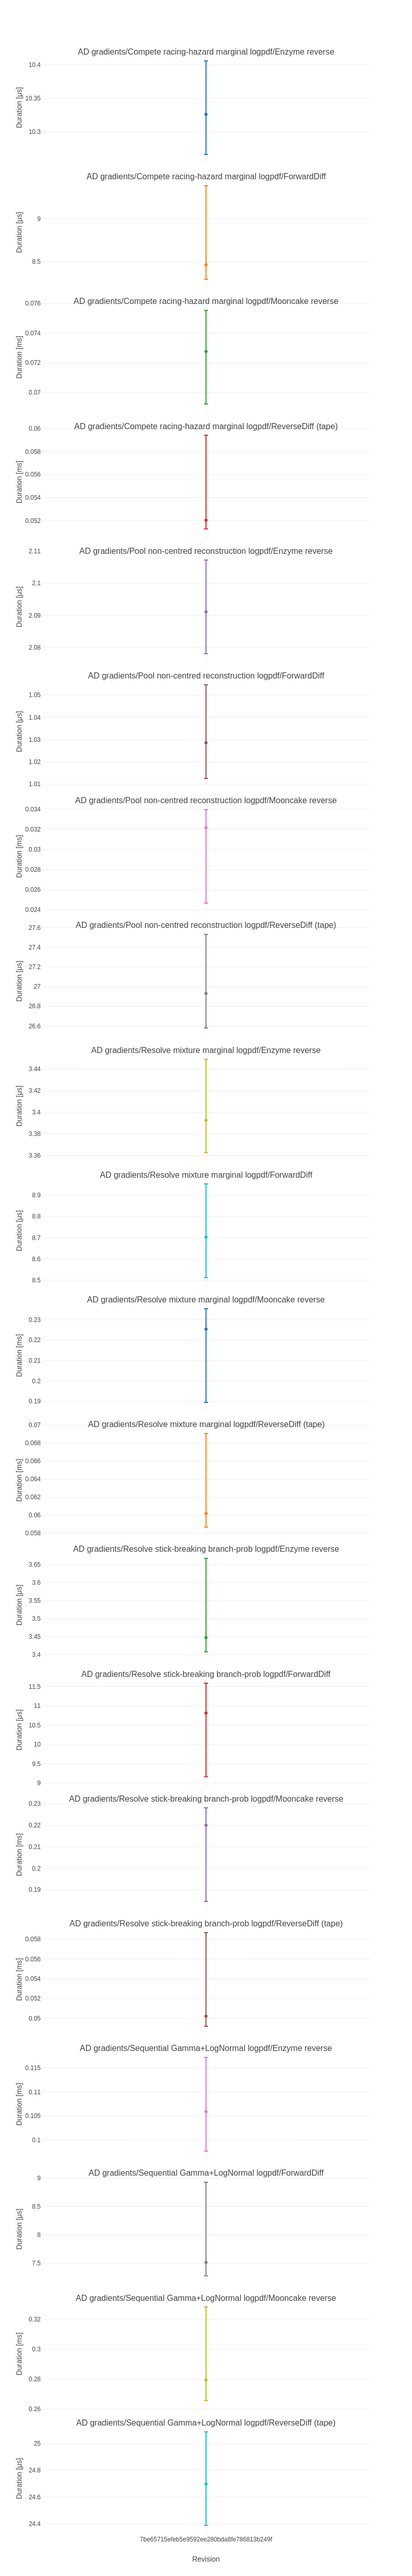
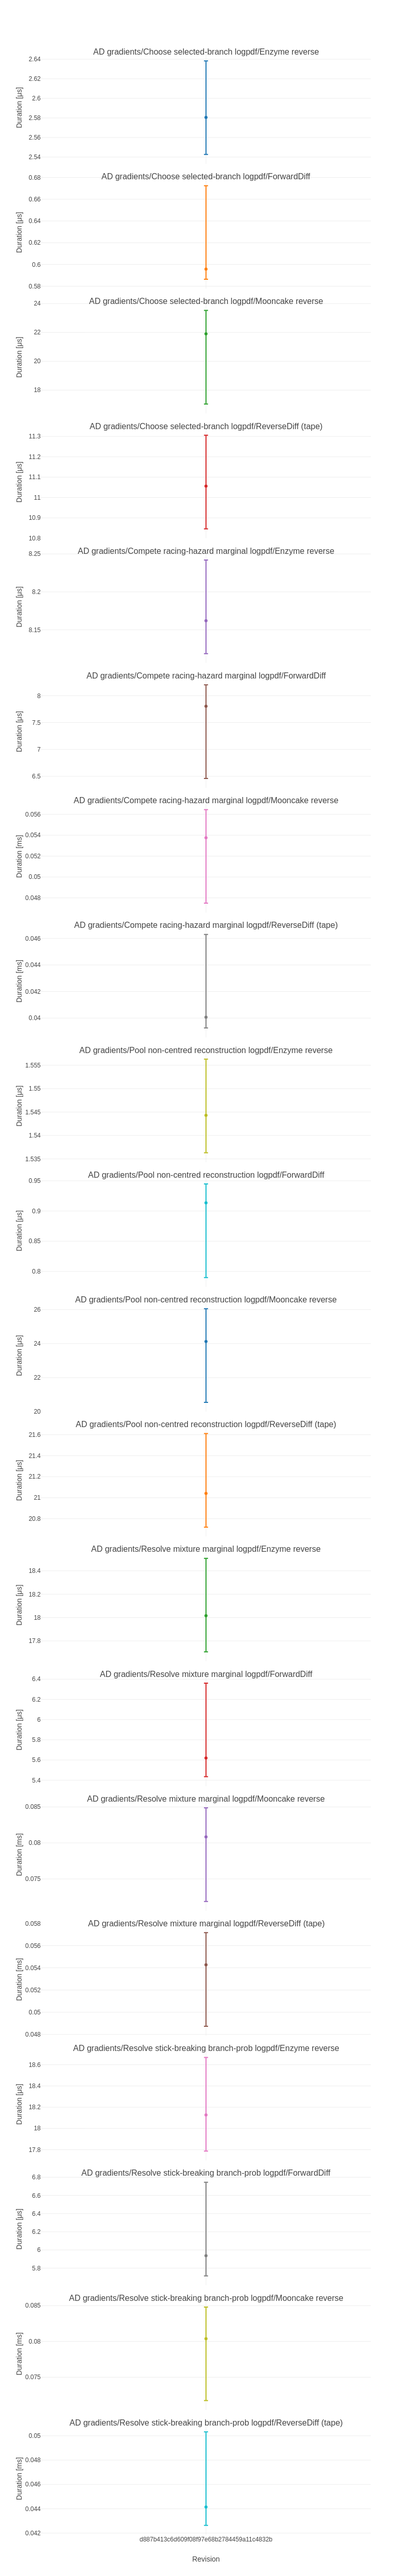
Deploying to benchmarks from @ EpiAware/ComposedDistributions.jl@d887b413c6d609f08f97e68b2784459a11c4832b 🚀

diff --git a/history/table.md b/history/table.md
@@ -1,82 +1,90 @@
-|                                                                           | 7be65715efeb5e...  |
-|:--------------------------------------------------------------------------|:------------------:|
-| AD gradients/Compete racing-hazard marginal logpdf/Enzyme reverse         | 10.3 ± 0.14 μs     |
-| AD gradients/Compete racing-hazard marginal logpdf/ForwardDiff            | 8.47 ± 1.1 μs      |
-| AD gradients/Compete racing-hazard marginal logpdf/Mooncake reverse       | 0.0728 ± 0.0063 ms |
-| AD gradients/Compete racing-hazard marginal logpdf/ReverseDiff (tape)     | 0.052 ± 0.0081 ms  |
-| AD gradients/Pool non-centred reconstruction logpdf/Enzyme reverse        | 2.09 ± 0.029 μs    |
-| AD gradients/Pool non-centred reconstruction logpdf/ForwardDiff           | 1.03 ± 0.042 μs    |
-| AD gradients/Pool non-centred reconstruction logpdf/Mooncake reverse      | 0.0322 ± 0.0093 ms |
-| AD gradients/Pool non-centred reconstruction logpdf/ReverseDiff (tape)    | 26.9 ± 0.95 μs     |
-| AD gradients/Resolve mixture marginal logpdf/Enzyme reverse               | 3.39 ± 0.087 μs    |
-| AD gradients/Resolve mixture marginal logpdf/ForwardDiff                  | 8.7 ± 0.44 μs      |
-| AD gradients/Resolve mixture marginal logpdf/Mooncake reverse             | 0.225 ± 0.046 ms   |
-| AD gradients/Resolve mixture marginal logpdf/ReverseDiff (tape)           | 0.0602 ± 0.01 ms   |
-| AD gradients/Resolve stick-breaking branch-prob logpdf/Enzyme reverse     | 3.45 ± 0.26 μs     |
-| AD gradients/Resolve stick-breaking branch-prob logpdf/ForwardDiff        | 10.8 ± 2.4 μs      |
-| AD gradients/Resolve stick-breaking branch-prob logpdf/Mooncake reverse   | 0.22 ± 0.043 ms    |
-| AD gradients/Resolve stick-breaking branch-prob logpdf/ReverseDiff (tape) | 0.0502 ± 0.0095 ms |
-| AD gradients/Sequential Gamma+LogNormal logpdf/Enzyme reverse             | 0.106 ± 0.019 ms   |
-| AD gradients/Sequential Gamma+LogNormal logpdf/ForwardDiff                | 7.51 ± 1.6 μs      |
-| AD gradients/Sequential Gamma+LogNormal logpdf/Mooncake reverse           | 0.279 ± 0.063 ms   |
-| AD gradients/Sequential Gamma+LogNormal logpdf/ReverseDiff (tape)         | 24.7 ± 0.7 μs      |
-| Composition/Choose/construct                                              | 1.74 ± 0.01 ns     |
-| Composition/Choose/logpdf                                                 | 29.8 ± 0.061 ns    |
-| Composition/Compete/construct                                             | 1.74 ± 0.01 ns     |
-| Composition/Compete/logccdf                                               | 0.336 ± 0.0021 μs  |
-| Composition/Compete/rand                                                  | 0.54 ± 0.12 μs     |
-| Composition/Nested/compose                                                | 1.42 ± 0.095 μs    |
-| Composition/Nested/logpdf                                                 | 1.72 ± 0.11 μs     |
-| Composition/Nested/rand                                                   | 4.87 ± 0.18 μs     |
-| Composition/Parallel/construct                                            | 0.899 ± 0.2 μs     |
-| Composition/Parallel/logpdf                                               | 0.105 ± 0.023 μs   |
-| Composition/Parallel/rand                                                 | 0.913 ± 0.043 μs   |
-| Composition/Resolve/construct                                             | 3.5 ± 0.01 ns      |
-| Composition/Resolve/logpdf                                                | 0.109 ± 0.0014 μs  |
-| Composition/Resolve/rand                                                  | 0.521 ± 0.11 μs    |
-| Composition/Sequential/construct                                          | 0.904 ± 0.21 μs    |
-| Composition/Sequential/logpdf                                             | 0.104 ± 0.024 μs   |
-| Composition/Sequential/rand                                               | 2.24 ± 0.041 μs    |
-| time_to_load                                                              | 0.865 ± 0.0028 s   |
+|                                                                           | d887b413c6d609...   |
+|:--------------------------------------------------------------------------|:-------------------:|
+| AD gradients/Choose selected-branch logpdf/Enzyme reverse                 | 2.58 ± 0.096 μs     |
+| AD gradients/Choose selected-branch logpdf/ForwardDiff                    | 0.596 ± 0.086 μs    |
+| AD gradients/Choose selected-branch logpdf/Mooncake reverse               | 21.9 ± 6.5 μs       |
+| AD gradients/Choose selected-branch logpdf/ReverseDiff (tape)             | 11.1 ± 0.46 μs      |
+| AD gradients/Compete racing-hazard marginal logpdf/Enzyme reverse         | 8.16 ± 0.12 μs      |
+| AD gradients/Compete racing-hazard marginal logpdf/ForwardDiff            | 7.8 ± 1.7 μs        |
+| AD gradients/Compete racing-hazard marginal logpdf/Mooncake reverse       | 0.0538 ± 0.009 ms   |
+| AD gradients/Compete racing-hazard marginal logpdf/ReverseDiff (tape)     | 0.0401 ± 0.007 ms   |
+| AD gradients/Pool non-centred reconstruction logpdf/Enzyme reverse        | 1.54 ± 0.02 μs      |
+| AD gradients/Pool non-centred reconstruction logpdf/ForwardDiff           | 0.914 ± 0.15 μs     |
+| AD gradients/Pool non-centred reconstruction logpdf/Mooncake reverse      | 24.1 ± 5.5 μs       |
+| AD gradients/Pool non-centred reconstruction logpdf/ReverseDiff (tape)    | 21 ± 0.89 μs        |
+| AD gradients/Resolve mixture marginal logpdf/Enzyme reverse               | 18 ± 0.8 μs         |
+| AD gradients/Resolve mixture marginal logpdf/ForwardDiff                  | 5.62 ± 0.93 μs      |
+| AD gradients/Resolve mixture marginal logpdf/Mooncake reverse             | 0.0808 ± 0.013 ms   |
+| AD gradients/Resolve mixture marginal logpdf/ReverseDiff (tape)           | 0.0543 ± 0.0084 ms  |
+| AD gradients/Resolve stick-breaking branch-prob logpdf/Enzyme reverse     | 18.1 ± 0.88 μs      |
+| AD gradients/Resolve stick-breaking branch-prob logpdf/ForwardDiff        | 5.94 ± 1 μs         |
+| AD gradients/Resolve stick-breaking branch-prob logpdf/Mooncake reverse   | 0.0804 ± 0.013 ms   |
+| AD gradients/Resolve stick-breaking branch-prob logpdf/ReverseDiff (tape) | 0.0441 ± 0.0077 ms  |
+| AD gradients/Sequential Gamma+LogNormal logpdf/Enzyme reverse             | 0.0846 ± 0.018 ms   |
+| AD gradients/Sequential Gamma+LogNormal logpdf/ForwardDiff                | 8.93 ± 1.1 μs       |
+| AD gradients/Sequential Gamma+LogNormal logpdf/Mooncake reverse           | 0.255 ± 0.053 ms    |
+| AD gradients/Sequential Gamma+LogNormal logpdf/ReverseDiff (tape)         | 22.4 ± 0.9 μs       |
+| Composition/Choose/construct                                              | 1.35 ± 0 ns         |
+| Composition/Choose/logpdf                                                 | 22 ± 0.04 ns        |
+| Composition/Compete/construct                                             | 1.35 ± 0 ns         |
+| Composition/Compete/logccdf                                               | 0.266 ± 0.0018 μs   |
+| Composition/Compete/rand                                                  | 0.437 ± 0.066 μs    |
+| Composition/Nested/compose                                                | 2.3 ± 0.1 μs        |
+| Composition/Nested/logpdf                                                 | 1.28 ± 0.088 μs     |
+| Composition/Nested/rand                                                   | 3.6 ± 0.17 μs       |
+| Composition/Parallel/construct                                            | 1.24 ± 0.07 μs      |
+| Composition/Parallel/logpdf                                               | 0.0789 ± 0.023 μs   |
+| Composition/Parallel/rand                                                 | 1.08 ± 0.034 μs     |
+| Composition/Resolve/construct                                             | 2.7 ± 0.01 ns       |
+| Composition/Resolve/logpdf                                                | 0.0853 ± 0.00087 μs |
+| Composition/Resolve/rand                                                  | 0.424 ± 0.066 μs    |
+| Composition/Sequential/construct                                          | 1.25 ± 0.072 μs     |
+| Composition/Sequential/logpdf                                             | 0.0791 ± 0.023 μs   |
+| Composition/Sequential/rand                                               | 1.08 ± 0.035 μs     |
+| time_to_load                                                              | 0.719 ± 0.0054 s    |
 
-|                                                                           | 7be65715efeb5e...         |
+|                                                                           | d887b413c6d609...         |
 |:--------------------------------------------------------------------------|:-------------------------:|
+| AD gradients/Choose selected-branch logpdf/Enzyme reverse                 | 24  allocs: 1 kB          |
+| AD gradients/Choose selected-branch logpdf/ForwardDiff                    | 7  allocs: 0.266 kB       |
+| AD gradients/Choose selected-branch logpdf/Mooncake reverse               | 0.28 k allocs: 0.0321 MB  |
+| AD gradients/Choose selected-branch logpdf/ReverseDiff (tape)             | 0.228 k allocs: 9.92 kB   |
 | AD gradients/Compete racing-hazard marginal logpdf/Enzyme reverse         | 24  allocs: 1.3 kB        |
 | AD gradients/Compete racing-hazard marginal logpdf/ForwardDiff            | 0.132 k allocs: 6.2 kB    |
-| AD gradients/Compete racing-hazard marginal logpdf/Mooncake reverse       | 0.596 k allocs: 0.0522 MB |
+| AD gradients/Compete racing-hazard marginal logpdf/Mooncake reverse       | 0.582 k allocs: 0.0475 MB |
 | AD gradients/Compete racing-hazard marginal logpdf/ReverseDiff (tape)     | 0.691 k allocs: 30.5 kB   |
 | AD gradients/Pool non-centred reconstruction logpdf/Enzyme reverse        | 10  allocs: 0.297 kB      |
 | AD gradients/Pool non-centred reconstruction logpdf/ForwardDiff           | 7  allocs: 0.484 kB       |
-| AD gradients/Pool non-centred reconstruction logpdf/Mooncake reverse      | 0.343 k allocs: 30 kB     |
+| AD gradients/Pool non-centred reconstruction logpdf/Mooncake reverse      | 0.337 k allocs: 29.6 kB   |
 | AD gradients/Pool non-centred reconstruction logpdf/ReverseDiff (tape)    | 0.446 k allocs: 17.7 kB   |
-| AD gradients/Resolve mixture marginal logpdf/Enzyme reverse               | 14  allocs: 1.11 kB       |
-| AD gradients/Resolve mixture marginal logpdf/ForwardDiff                  | 0.052 k allocs: 6.06 kB   |
-| AD gradients/Resolve mixture marginal logpdf/Mooncake reverse             | 2.45 k allocs: 0.148 MB   |
-| AD gradients/Resolve mixture marginal logpdf/ReverseDiff (tape)           | 0.775 k allocs: 0.0337 MB |
-| AD gradients/Resolve stick-breaking branch-prob logpdf/Enzyme reverse     | 18  allocs: 1.28 kB       |
-| AD gradients/Resolve stick-breaking branch-prob logpdf/ForwardDiff        | 0.053 k allocs: 6.16 kB   |
-| AD gradients/Resolve stick-breaking branch-prob logpdf/Mooncake reverse   | 2.44 k allocs: 0.13 MB    |
-| AD gradients/Resolve stick-breaking branch-prob logpdf/ReverseDiff (tape) | 0.723 k allocs: 31.9 kB   |
-| AD gradients/Sequential Gamma+LogNormal logpdf/Enzyme reverse             | 1.18 k allocs: 0.0516 MB  |
-| AD gradients/Sequential Gamma+LogNormal logpdf/ForwardDiff                | 0.114 k allocs: 5.92 kB   |
-| AD gradients/Sequential Gamma+LogNormal logpdf/Mooncake reverse           | 3.91 k allocs: 0.144 MB   |
-| AD gradients/Sequential Gamma+LogNormal logpdf/ReverseDiff (tape)         | 0.38 k allocs: 15.8 kB    |
+| AD gradients/Resolve mixture marginal logpdf/Enzyme reverse               | 0.244 k allocs: 12.6 kB   |
+| AD gradients/Resolve mixture marginal logpdf/ForwardDiff                  | 0.052 k allocs: 3.64 kB   |
+| AD gradients/Resolve mixture marginal logpdf/Mooncake reverse             | 1.14 k allocs: 0.0482 MB  |
+| AD gradients/Resolve mixture marginal logpdf/ReverseDiff (tape)           | 0.815 k allocs: 0.0352 MB |
+| AD gradients/Resolve stick-breaking branch-prob logpdf/Enzyme reverse     | 0.248 k allocs: 12.8 kB   |
+| AD gradients/Resolve stick-breaking branch-prob logpdf/ForwardDiff        | 0.053 k allocs: 3.73 kB   |
+| AD gradients/Resolve stick-breaking branch-prob logpdf/Mooncake reverse   | 1.15 k allocs: 0.0489 MB  |
+| AD gradients/Resolve stick-breaking branch-prob logpdf/ReverseDiff (tape) | 0.768 k allocs: 0.033 MB  |
+| AD gradients/Sequential Gamma+LogNormal logpdf/Enzyme reverse             | 1.18 k allocs: 0.0498 MB  |
+| AD gradients/Sequential Gamma+LogNormal logpdf/ForwardDiff                | 0.139 k allocs: 7.02 kB   |
+| AD gradients/Sequential Gamma+LogNormal logpdf/Mooncake reverse           | 4.26 k allocs: 0.155 MB   |
+| AD gradients/Sequential Gamma+LogNormal logpdf/ReverseDiff (tape)         | 0.405 k allocs: 16.8 kB   |
 | Composition/Choose/construct                                              | 0  allocs: 0 B            |
 | Composition/Choose/logpdf                                                 | 0  allocs: 0 B            |
 | Composition/Compete/construct                                             | 0  allocs: 0 B            |
 | Composition/Compete/logccdf                                               | 0  allocs: 0 B            |
-| Composition/Compete/rand                                                  | 9  allocs: 0.25 kB        |
-| Composition/Nested/compose                                                | 24  allocs: 1.16 kB       |
-| Composition/Nested/logpdf                                                 | 0.044 k allocs: 1.98 kB   |
-| Composition/Nested/rand                                                   | 0.057 k allocs: 2.45 kB   |
-| Composition/Parallel/construct                                            | 15  allocs: 0.641 kB      |
+| Composition/Compete/rand                                                  | 8  allocs: 0.219 kB       |
+| Composition/Nested/compose                                                | 0.034 k allocs: 1.5 kB    |
+| Composition/Nested/logpdf                                                 | 0.043 k allocs: 1.78 kB   |
+| Composition/Nested/rand                                                   | 0.056 k allocs: 2.22 kB   |
+| Composition/Parallel/construct                                            | 20  allocs: 0.828 kB      |
 | Composition/Parallel/logpdf                                               | 2  allocs: 0.0781 kB      |
-| Composition/Parallel/rand                                                 | 18  allocs: 0.578 kB      |
+| Composition/Parallel/rand                                                 | 20  allocs: 0.672 kB      |
 | Composition/Resolve/construct                                             | 0  allocs: 0 B            |
 | Composition/Resolve/logpdf                                                | 0  allocs: 0 B            |
-| Composition/Resolve/rand                                                  | 9  allocs: 0.25 kB        |
-| Composition/Sequential/construct                                          | 15  allocs: 0.641 kB      |
+| Composition/Resolve/rand                                                  | 8  allocs: 0.219 kB       |
+| Composition/Sequential/construct                                          | 20  allocs: 0.828 kB      |
 | Composition/Sequential/logpdf                                             | 2  allocs: 0.0781 kB      |
-| Composition/Sequential/rand                                               | 19  allocs: 0.625 kB      |
+| Composition/Sequential/rand                                               | 20  allocs: 0.672 kB      |
 | time_to_load                                                              | 0.149 k allocs: 11.2 kB   |
 

diff --git a/history/README.md b/history/README.md
@@ -1,6 +1,6 @@
 # ComposedDistributions.jl benchmark history
 
-Revisions: 7be65715efeb5e9592ee280bda8fe786813b249f
+Revisions: d887b413c6d609f08f97e68b2784459a11c4832b
 
 See `table.md` for the ratio summary and the PNG
 files in this folder for per-benchmark timelines.
